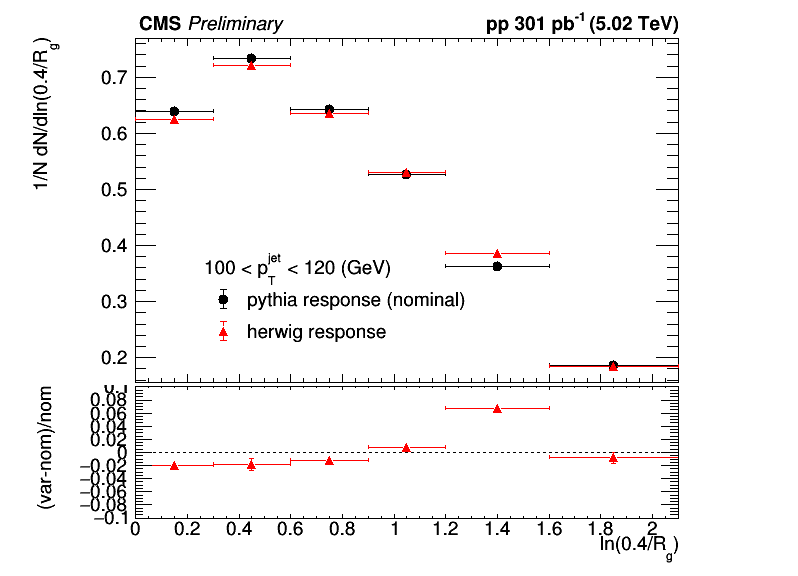
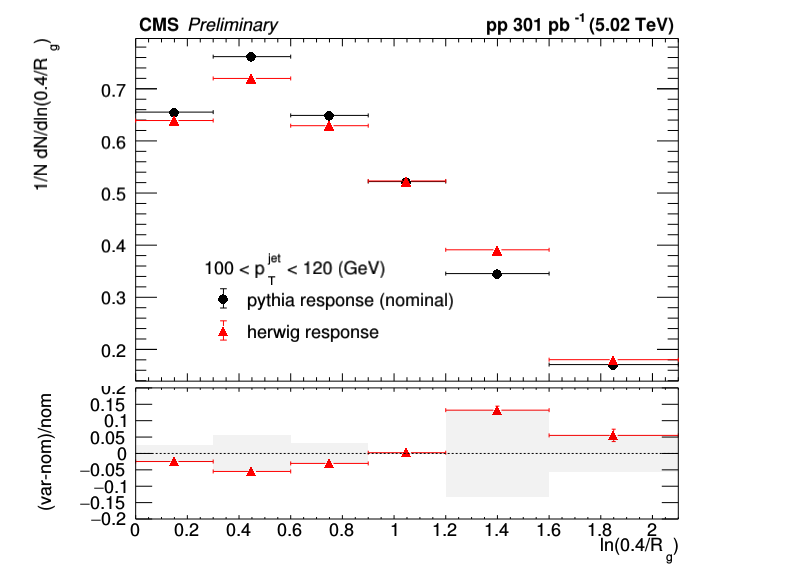
update model response unc for inclusive jets with sym band

diff --git a/myMacros/C106X/uncertanties/model_unc_inclusive.C b/myMacros/C106X/uncertanties/model_unc_inclusive.C
@@ -9,6 +9,7 @@ void model_unc_inclusive(TString observable="rg")
     gStyle->SetLabelSize(text_size, "XYZ");
     gStyle->SetTitleSize(text_size, "XYZ");
     gStyle->SetErrorX(0.5);
+    gStyle->SetCanvasPreferGL(kTRUE);
 
     TString xlabel;
     if (observable=="rg") xlabel = "ln(0.4/R_{g})";
@@ -18,7 +19,7 @@ void model_unc_inclusive(TString observable="rg")
 
     TFile *fin_nom = new TFile("../unfolding/histos/dijet_PF40_aggrTMVA_inclusive_unfolded_histograms_"+observable+"_jer_nom_jec_nom.root");
     TH2D *h_nom = (TH2D *) fin_nom->Get("h_data_unfolded")->Clone("h_nom");
-    TFile *fin_her = new TFile("../unfolding/histos/herwig_dijet_PF40_aggrTMVA_inclusive_unfolded_histograms_"+observable+"_jer_nom_jec_nom.root");
+    TFile *fin_her = new TFile("../unfolding/histos/herwig_dijet_official_PF40_aggrTMVA_inclusive_unfolded_histograms_"+observable+"_jer_nom_jec_nom.root");
     TH2D *h_her = (TH2D *) fin_her->Get("h_data_unfolded")->Clone("h_her");
     
     int nbins_x = h_nom->GetNbinsX();
@@ -106,9 +107,14 @@ void model_unc_inclusive(TString observable="rg")
         h_model_unc_rel->Divide(h_nom_1d);
         h_model_unc_rel->GetYaxis()->SetTitle("(var-nom)/nom");
         h_model_unc_rel->GetYaxis()->SetTitleOffset(2.);
-        h_model_unc_rel->SetMinimum(-0.1);
-        h_model_unc_rel->SetMaximum(0.1);
+        h_model_unc_rel->GetYaxis()->SetRangeUser(-0.2,0.2);
+        if (observable=="zg") h_model_unc_rel->GetYaxis()->SetRangeUser(-0.05,0.05);
+        h_model_unc_rel->GetYaxis()->SetNdivisions(8);
         h_model_unc_rel->Write();
+
+        TH1D *h_model_unc_rel_down = (TH1D *) h_model_unc_rel->Clone(Form("h_model_unc_rel_down_%d", ibin_pt));
+        h_model_unc_rel_down->Scale(-1.);
+        h_model_unc_rel_down->Write();
 
         bottom_pads[ipad]->cd();
         bottom_pads[ipad]->SetTopMargin(0.01);
@@ -121,6 +127,19 @@ void model_unc_inclusive(TString observable="rg")
         // h_model_unc->Draw("hist same");
         h_model_unc_rel->Draw("pe1");
 
+        TH1D *h_band = (TH1D *) h_model_unc_rel->Clone("h_band");
+        h_band->Reset();
+        for (int ibin_x=1; ibin_x<=h_model_unc_rel->GetNbinsX(); ibin_x++) {
+            double maxUnc = h_model_unc_rel->GetBinContent(ibin_x);
+            h_band->SetBinContent(ibin_x, 0.);
+            h_band->SetBinError(ibin_x, maxUnc);
+        }
+
+        h_band->SetMarkerSize(0);
+        h_band->SetFillStyle(1001);
+        h_band->SetFillColorAlpha(kBlack, 0.05);
+        h_band->Draw("e2 same");
+
         TLine *line = new TLine(h_model_unc->GetXaxis()->GetBinLowEdge(ibin_x_min), 0, h_model_unc->GetXaxis()->GetBinUpEdge(ibin_x_max), 0);
         line->SetLineStyle(kDashed);
         line->Draw();
@@ -130,6 +149,7 @@ void model_unc_inclusive(TString observable="rg")
         bottom_pads[ipad]->Draw();
     }
     c_model->cd();
+    c_model->Draw();
     c_model->Print("plots_an/model_response_unc_incl_"+observable+".png");
     // fout->Close();
     // delete fout;
